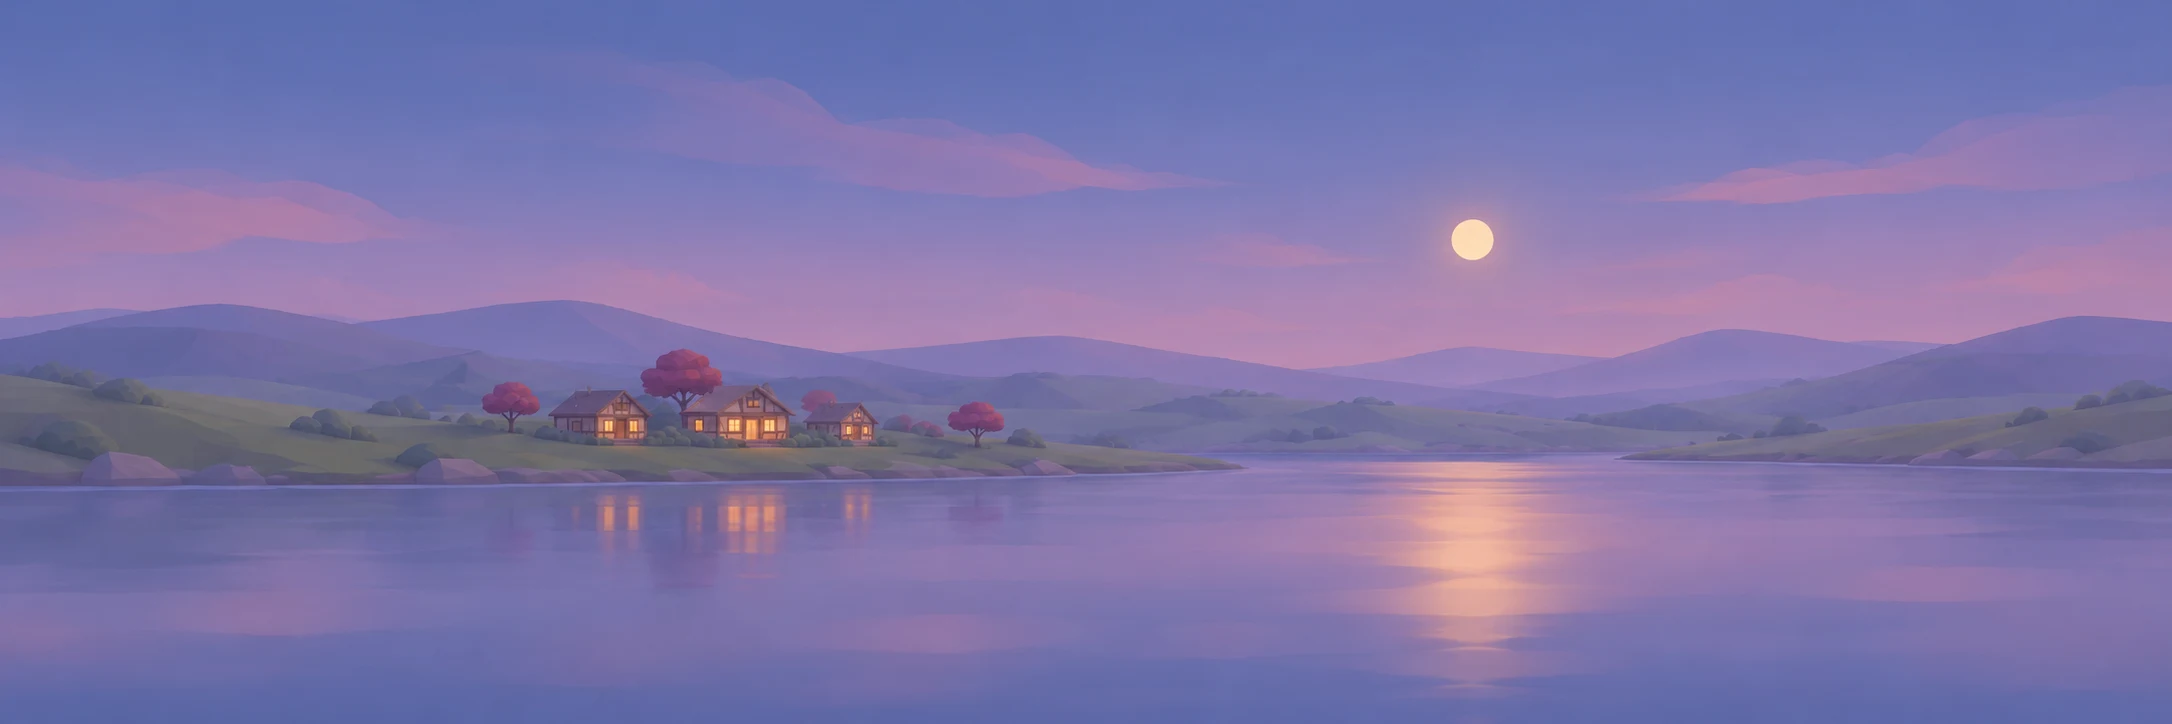
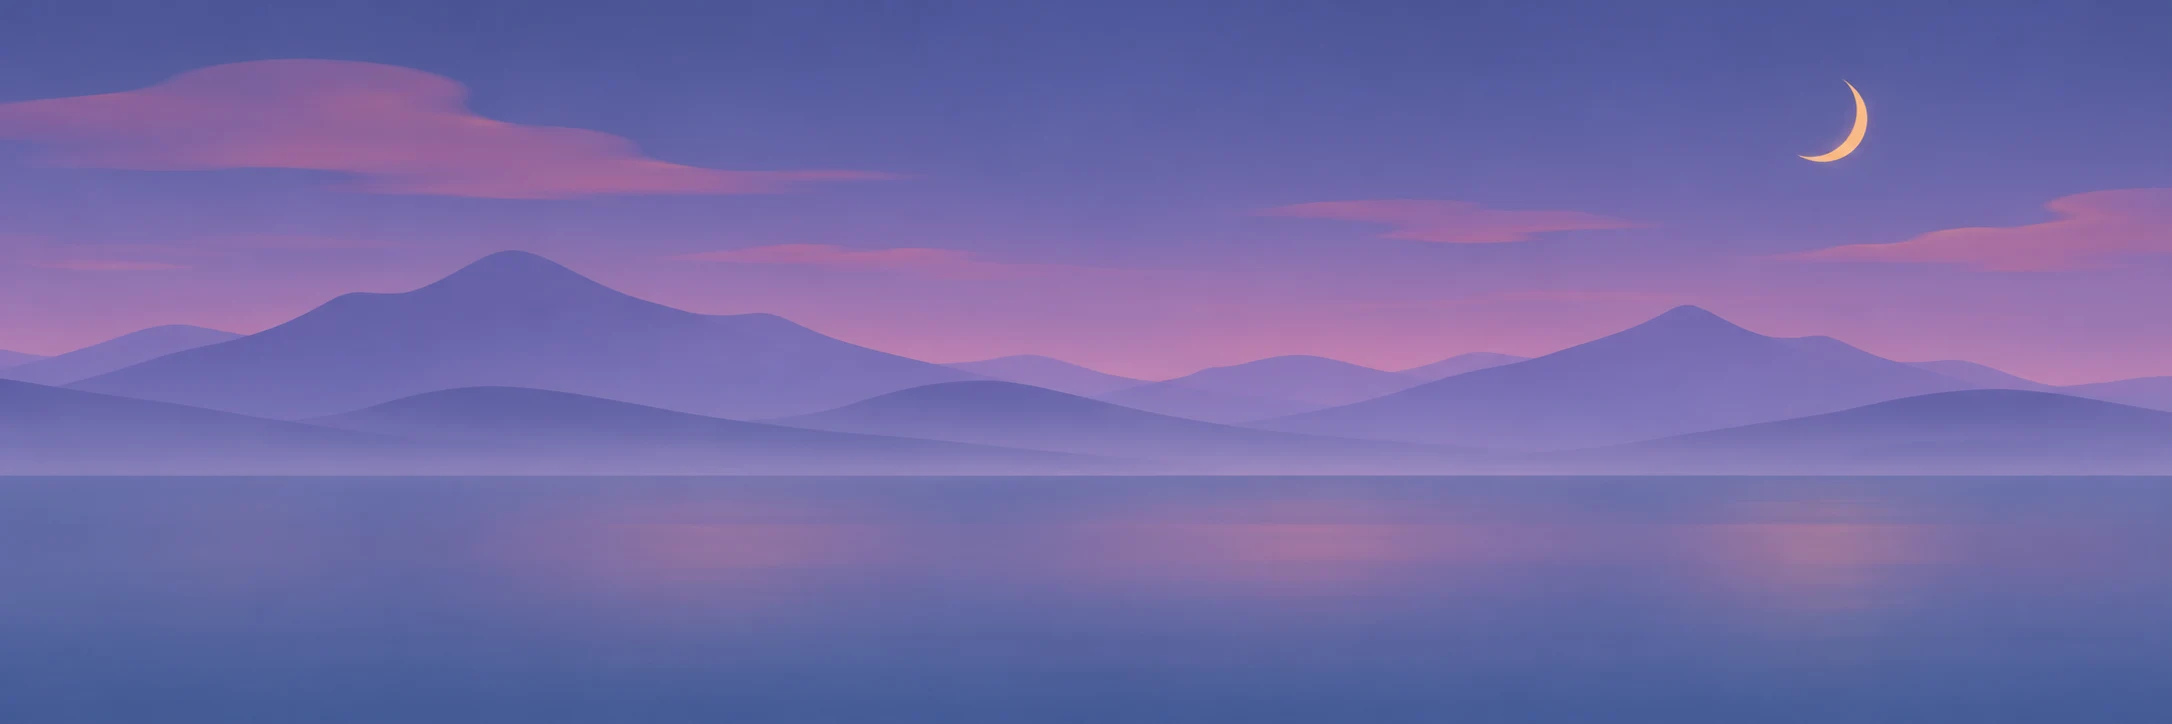
Move the twilight village into the 3D scenery

diff --git a/lounge.js b/lounge.js
@@ -337,7 +337,7 @@ function buildScenery() {
   const foliage = ['#566859', '#484e56', '#744c67'].map(color => material(color));
   const firGeometry = new T.ConeGeometry(1, 1, 7);
   const crownGeometry = new T.IcosahedronGeometry(1, 1);
-  const panorama = new T.TextureLoader().load(new URL('./assets/twilight-river.webp', import.meta.url).href);
+  const panorama = new T.TextureLoader().load(new URL('./assets/twilight-river.webp?v=3d-village', import.meta.url).href);
   panorama.colorSpace = T.SRGBColorSpace;
   panorama.anisotropy = 4;
 
@@ -361,7 +361,7 @@ function buildScenery() {
         vec3 ray = normalize(direction);
         float longitude = atan(ray.z, max(abs(ray.x), 0.0001));
         float latitude = asin(clamp(ray.y, -1.0, 1.0));
-        vec2 uv = vec2(0.5 + longitude / 3.18, 0.34 + latitude / 0.90);
+        vec2 uv = vec2(0.5 + longitude / 3.18, 0.39 + latitude / 0.90);
         gl_FragColor = texture2D(panorama, clamp(uv, vec2(0.0), vec2(1.0)));
         #include <colorspace_fragment>
       }
@@ -405,7 +405,7 @@ function buildScenery() {
         for (let j = 0; j < 3; j++) {
           const x = side * (5.45 + random() * 1.65);
           const z = middle + (random() - 0.5) * 7;
-          const height = 1.2 + random() * 1.95;
+          const height = 0.9 + random() * 1.35;
           const trunk = mesh(firGeometry, trunks, x, -1.4 + height * 0.23, z);
           trunk.scale.set(0.10, height * 0.55, 0.10);
           if (group === 1) {
@@ -427,6 +427,75 @@ function buildScenery() {
         const size = 0.16 + random() * 0.28;
         const boulder = mesh(crownGeometry, rock, side * (6 + random() * 1.4), -1.46, z);
         boulder.scale.set(size * 1.4, size * 0.62, size);
+      }
+    }
+  });
+  const meadow = material('#616455');
+  const soil = material('#6a5c60');
+  const plaster = ['#aa8974', '#8a7779', '#9c8490'].map(color => material(color));
+  const slate = ['#4c465c', '#634b58'].map(color => material(color));
+  const beam = material('#453743');
+  const glass = new T.MeshBasicMaterial({ color: '#ffd797' });
+  const glow = new T.MeshBasicMaterial({ color: '#a592b1' });
+
+  function chalet(side, x, z, width, finish) {
+    const floorY = -0.83;
+    const depth = width * 0.66;
+    const eaves = width * 0.47;
+    const gable = width * 0.29;
+    const facade = x - side * depth / 2;
+    box(depth, eaves, width, plaster[finish], x, floorY + eaves / 2, z);
+    box(depth + 0.07, 0.10, width + 0.10, soil, x, floorY, z);
+    const profile = new T.Shape();
+    profile.moveTo(-width / 2, 0);
+    profile.lineTo(width / 2, 0);
+    profile.lineTo(0, gable);
+    profile.closePath();
+    const gableWall = mesh(new T.ExtrudeGeometry(profile, { depth, bevelEnabled: false }),
+      plaster[finish], x - depth / 2, floorY + eaves, z);
+    gableWall.rotation.y = Math.PI / 2;
+    const pitch = Math.atan2(gable, width / 2);
+    for (const edge of [-1, 1]) {
+      const roof = box(depth + 0.33, 0.10, Math.hypot(width / 2, gable) + 0.16,
+        slate[finish % slate.length], x, floorY + eaves + gable / 2 + 0.05, z + edge * width / 4);
+      roof.rotation.x = edge * pitch;
+      box(0.085, eaves, 0.07, beam, facade - side * 0.025, floorY + eaves / 2, z + edge * width * 0.459);
+      const windowZ = z + edge * width * 0.282;
+      const windowY = floorY + eaves * 0.57;
+      box(0.085, width * 0.20, width * 0.19, beam, facade - side * 0.028, windowY, windowZ);
+      box(0.093, width * 0.155, width * 0.145, glass, facade - side * 0.048, windowY, windowZ);
+      box(0.103, width * 0.155, 0.026, beam, facade - side * 0.053, windowY, windowZ);
+      box(0.103, 0.025, width * 0.145, beam, facade - side * 0.053, windowY, windowZ);
+    }
+    box(0.09, 0.076, width, beam, facade - side * 0.025, floorY + eaves, z);
+    box(0.086, eaves * 0.79, width * 0.17, beam, facade - side * 0.035, floorY + eaves * 0.39, z);
+    box(0.11, gable * 0.33, width * 0.10, glass, facade - side * 0.047, floorY + eaves + gable * 0.39, z);
+    box(width * 0.105, width * 0.27, width * 0.10, soil, x + depth * 0.18,
+      floorY + eaves + gable * 0.67, z + width * 0.21);
+  }
+
+  loop(128, 2.05, 2, () => {
+    for (const side of [-1, 1]) {
+      const origin = -16 + side * 4;
+      for (const [dz, width, depth] of [[-8, 15, 6.5], [3, 18, 8.4], [14, 13, 6.2]]) {
+        oval(meadow, side * (33 + depth * 0.29), -2.0, origin + dz, depth, 1.35, width);
+        oval(soil, side * 30.5, -2.14, origin + dz + 1, 3.1, 0.43, width * 0.78);
+      }
+      for (const [i, [dz, x, width]] of [[-9, 33.7, 3.3], [-3.2, 35.6, 2.55], [3.0, 32.9, 4.05], [12.5, 35.4, 2.9]].entries()) {
+        const z = origin + dz;
+        chalet(side, side * x, z, width, i % plaster.length);
+        for (let j = 0; j < 3; j++) {
+          const glint = oval(glow, side * (26.6 - j * 0.86), -2.14, z + 0.18 * Math.sin(j * 2),
+            0.43 + j * 0.14, 0.004, width * (0.14 - j * 0.025));
+          glint.rotation.y = j * 0.18;
+        }
+      }
+      for (const [dz, x, size] of [[-14, 33.6, 1.12], [-5, 38.1, 1.47], [7.5, 35.8, 1.08], [17.3, 34, 1.29]]) {
+        const z = origin + dz;
+        const treeX = side * x;
+        mesh(firGeometry, trunks, treeX, -0.68 + size * 0.45, z).scale.set(0.15, size, 0.15);
+        mesh(crownGeometry, foliage[2], treeX, -0.68 + size * 1.16, z).scale.set(size, size * 0.65, size * 0.9);
+        mesh(crownGeometry, foliage[2], treeX, -0.68 + size * 1.02, z + size * 0.47).scale.set(size * 0.70, size * 0.53, size * 0.7);
       }
     }
   });

diff --git a/toa-tau/index.html b/toa-tau/index.html
@@ -4,7 +4,7 @@
   <meta charset="utf-8">
   <meta name="viewport" content="width=device-width, initial-scale=1">
   <title>Lofi Train — Mountain Route</title>
-  <link rel="stylesheet" href="../lounge.css?v=painted-river">
+  <link rel="stylesheet" href="../lounge.css?v=3d-village">
 </head>
 <body>
   <main aria-label="Toa lounge Lofi Train">
@@ -39,6 +39,6 @@
     </dialog>
   </main>
   <script type="importmap">{"imports":{"three":"https://cdn.jsdelivr.net/npm/three@0.164.1/build/three.module.js"}}</script>
-  <script type="module" src="../lounge.js?v=painted-river"></script>
+  <script type="module" src="../lounge.js?v=3d-village"></script>
 </body>
 </html>
